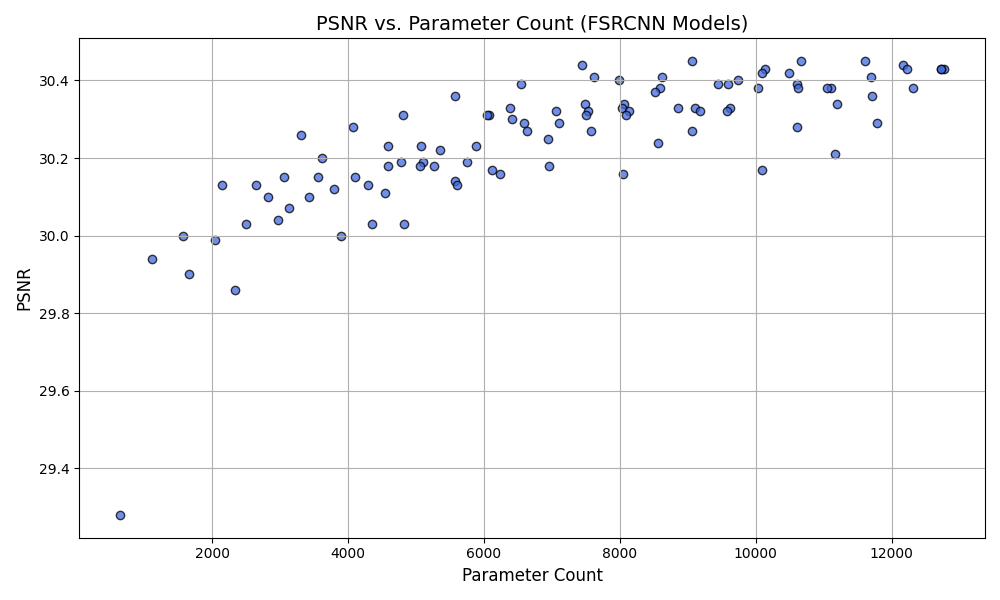
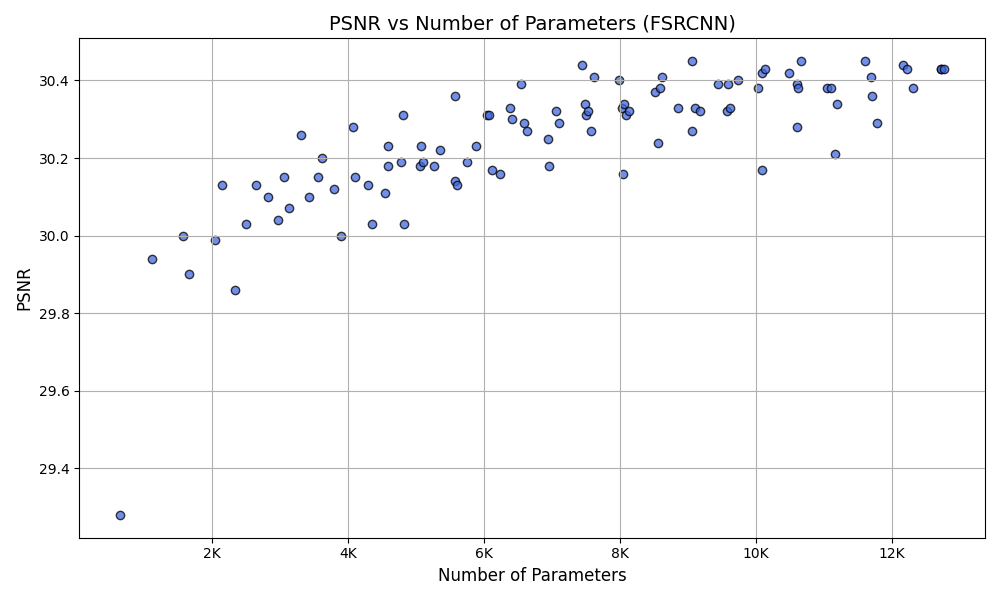
🎨 Update plot design: refined title and axis labels

diff --git a/FSRCNN-pytorch-master/plot_summary.py b/FSRCNN-pytorch-master/plot_summary.py
@@ -1,13 +1,23 @@
 import pandas as pd
 import matplotlib.pyplot as plt
+import matplotlib.ticker as ticker  # 🔥 추가: x축 포맷 바꾸려고
 
+# 데이터 불러오기
 df = pd.read_csv("summary_results.csv")
 
+# 플롯 시작
 plt.figure(figsize=(10, 6))
 plt.scatter(df["param_count"], df["psnr"], c="royalblue", edgecolors="black", alpha=0.75)
-plt.title("PSNR vs. Parameter Count (FSRCNN Models)", fontsize=14)
-plt.xlabel("Parameter Count", fontsize=12)
+
+# 제목과 레이블
+plt.title("PSNR vs Number of Parameters (FSRCNN)", fontsize=14)
+plt.xlabel("Number of Parameters", fontsize=12)
 plt.ylabel("PSNR", fontsize=12)
+
+# 🔥 여기 추가: x축을 K단위로 포맷팅
+ax = plt.gca()
+ax.xaxis.set_major_formatter(ticker.FuncFormatter(lambda x, pos: f'{int(x/1000)}K'))
+
 plt.grid(True)
 plt.tight_layout()
 plt.savefig("results/summary_plot.png")
